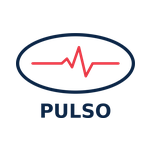
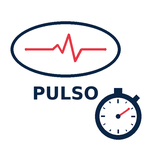
Poner el icono de PULSO con cronómetro en todos los cronos
Decisión de Arkaitz (23/11/2026): la web y el crono van con el icono de
PULSO, también el del Inter. Inter, filial, juvenil y la demo llevan ahora
el emblema de PULSO con un pequeño cronómetro abajo a la derecha (fondo
blanco opaco, 120 a 512 y el maskable con zona segura), en
public/icons-pulso/. Los cuatro manifest, el apple-touch-icon, el
favicon y la raíz (apple-touch-icon.png y -precomposed) apuntan a él; se
retira public/icons/ con el escudo del Inter.

Changed region(s): [[0.0526, 0.1316, 0.9474, 0.9211]]

diff --git a/src/app/layout.tsx b/src/app/layout.tsx
@@ -52,12 +52,13 @@ const BP = process.env.NEXT_EXPORT === "1" ? (process.env.CRONO_BASEPATH || "/pu
 const MANIFEST = `${BP}/manifest${CLIENTE.id === "inter" ? "" : `-${CLIENTE.id}`}.json`;
 
 // Icono de la pantalla de inicio («Añadir a pantalla de inicio» en Safari).
-// Los tres equipos del club llevan el escudo del Inter con el cronómetro
-// (public/icons/, hecho a propósito); la demo es el producto y lleva el de
-// PULSO (public/icons-pulso/, fondo blanco opaco: iOS pinta de negro lo
-// transparente). Su manifest-pulso.json apunta a la misma carpeta.
-const ICONOS = `${BP}/${CLIENTE.id === "pulso" ? "icons-pulso" : "icons"}`;
-const APPLE_TOUCH = CLIENTE.id === "pulso" ? `${ICONOS}/icon-180.png` : `${BP}/apple-touch-icon.png`;
+// Desde el 23/11/2026 TODOS los clientes (inter, filial, juvenil y la demo)
+// llevan el emblema de PULSO con un pequeño cronómetro (decisión de Arkaitz:
+// «la web y el crono van con el icono de PULSO»). public/icons-pulso/, fondo
+// blanco opaco: iOS pinta de negro lo transparente. Los cuatro manifest
+// apuntan a la misma carpeta.
+const ICONOS = `${BP}/icons-pulso`;
+const APPLE_TOUCH = `${ICONOS}/icon-180.png`;
 
 export const metadata: Metadata = {
   title: CLIENTE.appTitulo,
